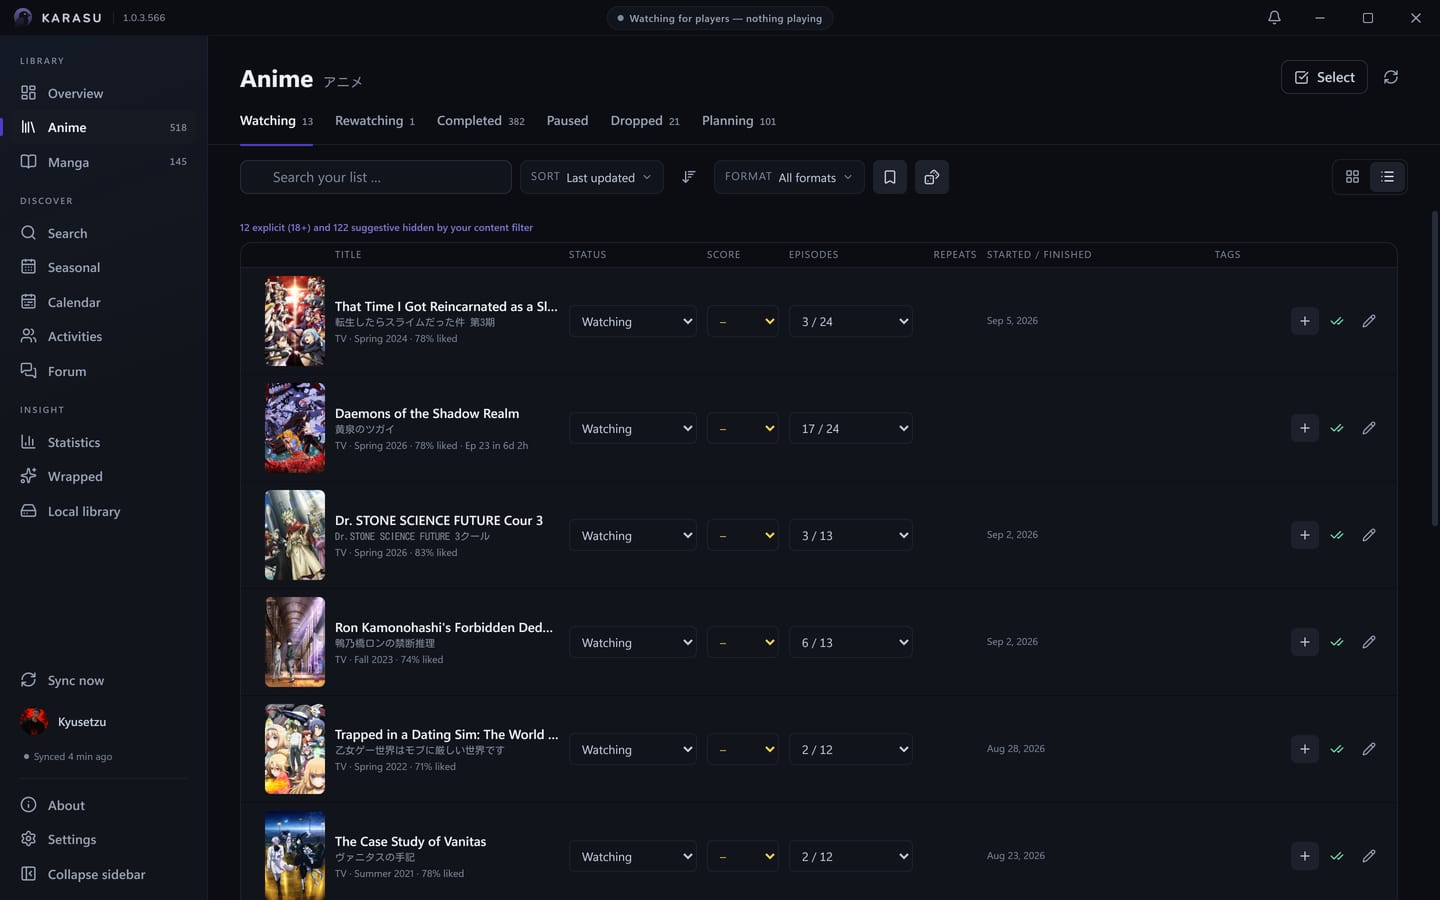
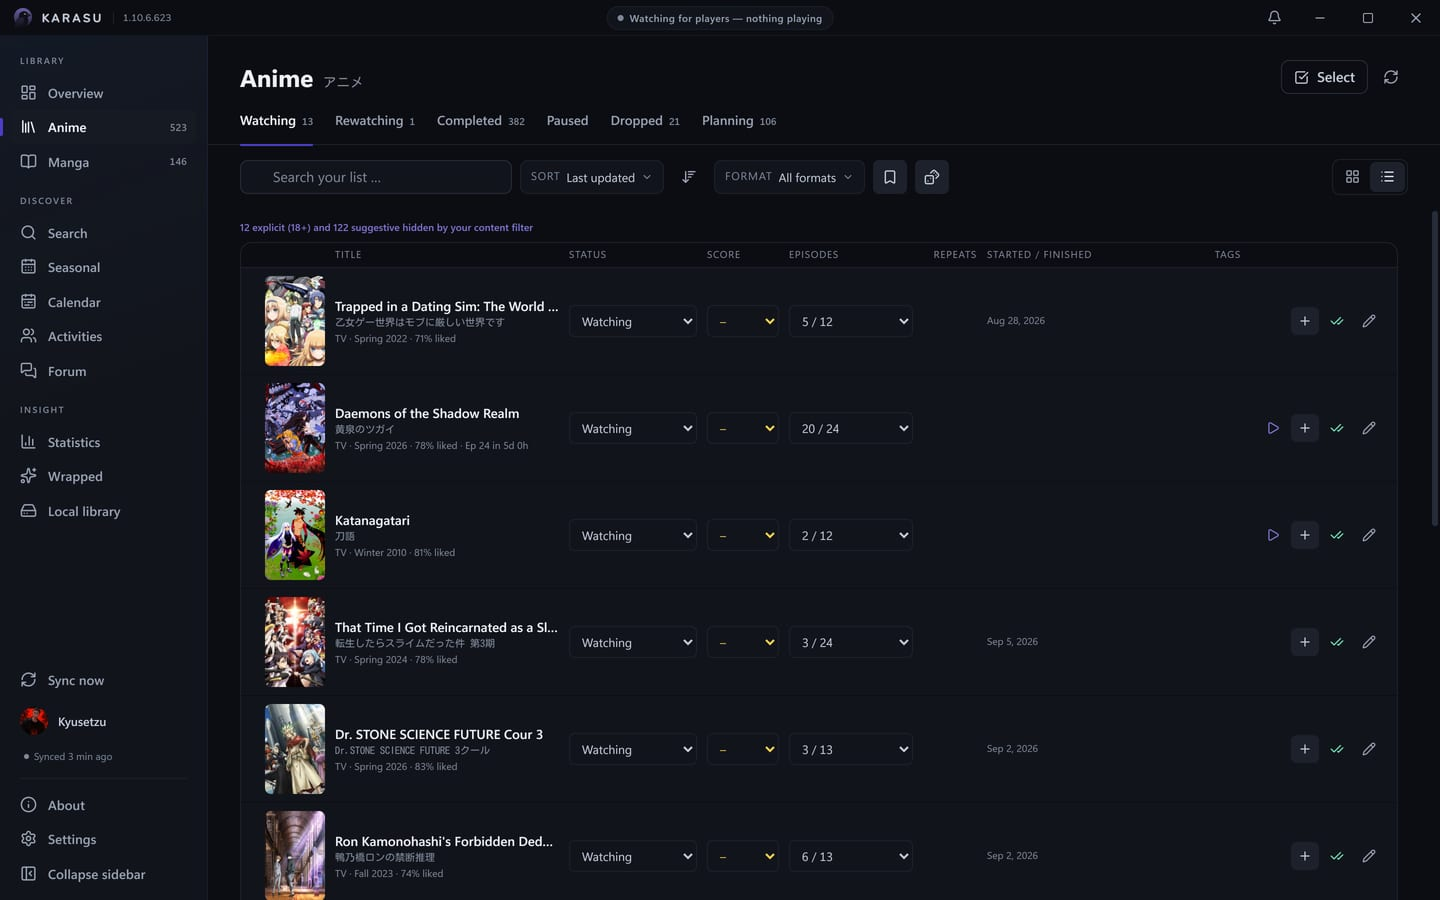
The README screenshots show the current build
Fourteen of the fifteen captures were from 2026-09-06 and 1.0.3; they are
now the 2026-09-14 rig and phone captures of 1.10.6 that the Claude Design
screen references use, so the calendar picture shows the views the text
describes. Now Playing keeps its capture — nothing was playing on the rig.

diff --git a/README.md b/README.md
@@ -84,7 +84,7 @@ the same set the [website](https://kyusetzu.github.io/Karasu/) shows at full siz
 <td width="50%"><img src="assets/screenshots/statistics-genres.jpg" alt="Statistics, genres and tags" /><br /><sub>…and the shape of your taste: genres against your average, tags by weight</sub></td>
 </tr>
 <tr>
-<td width="50%"><img src="assets/screenshots/calendar.jpg" alt="Airing calendar" /><br /><sub>Calendar — a Monday-first week, your shows or everything, with iCal export</sub></td>
+<td width="50%"><img src="assets/screenshots/calendar.jpg" alt="Airing calendar" /><br /><sub>Calendar — the week as a grid, tiles or an agenda, your shows or everything, with iCal export</sub></td>
 <td width="50%"><img src="assets/screenshots/franchise.jpg" alt="Franchise graph" /><br /><sub>Franchise — the whole relation map, each node coloured by your status</sub></td>
 </tr>
 </table>
